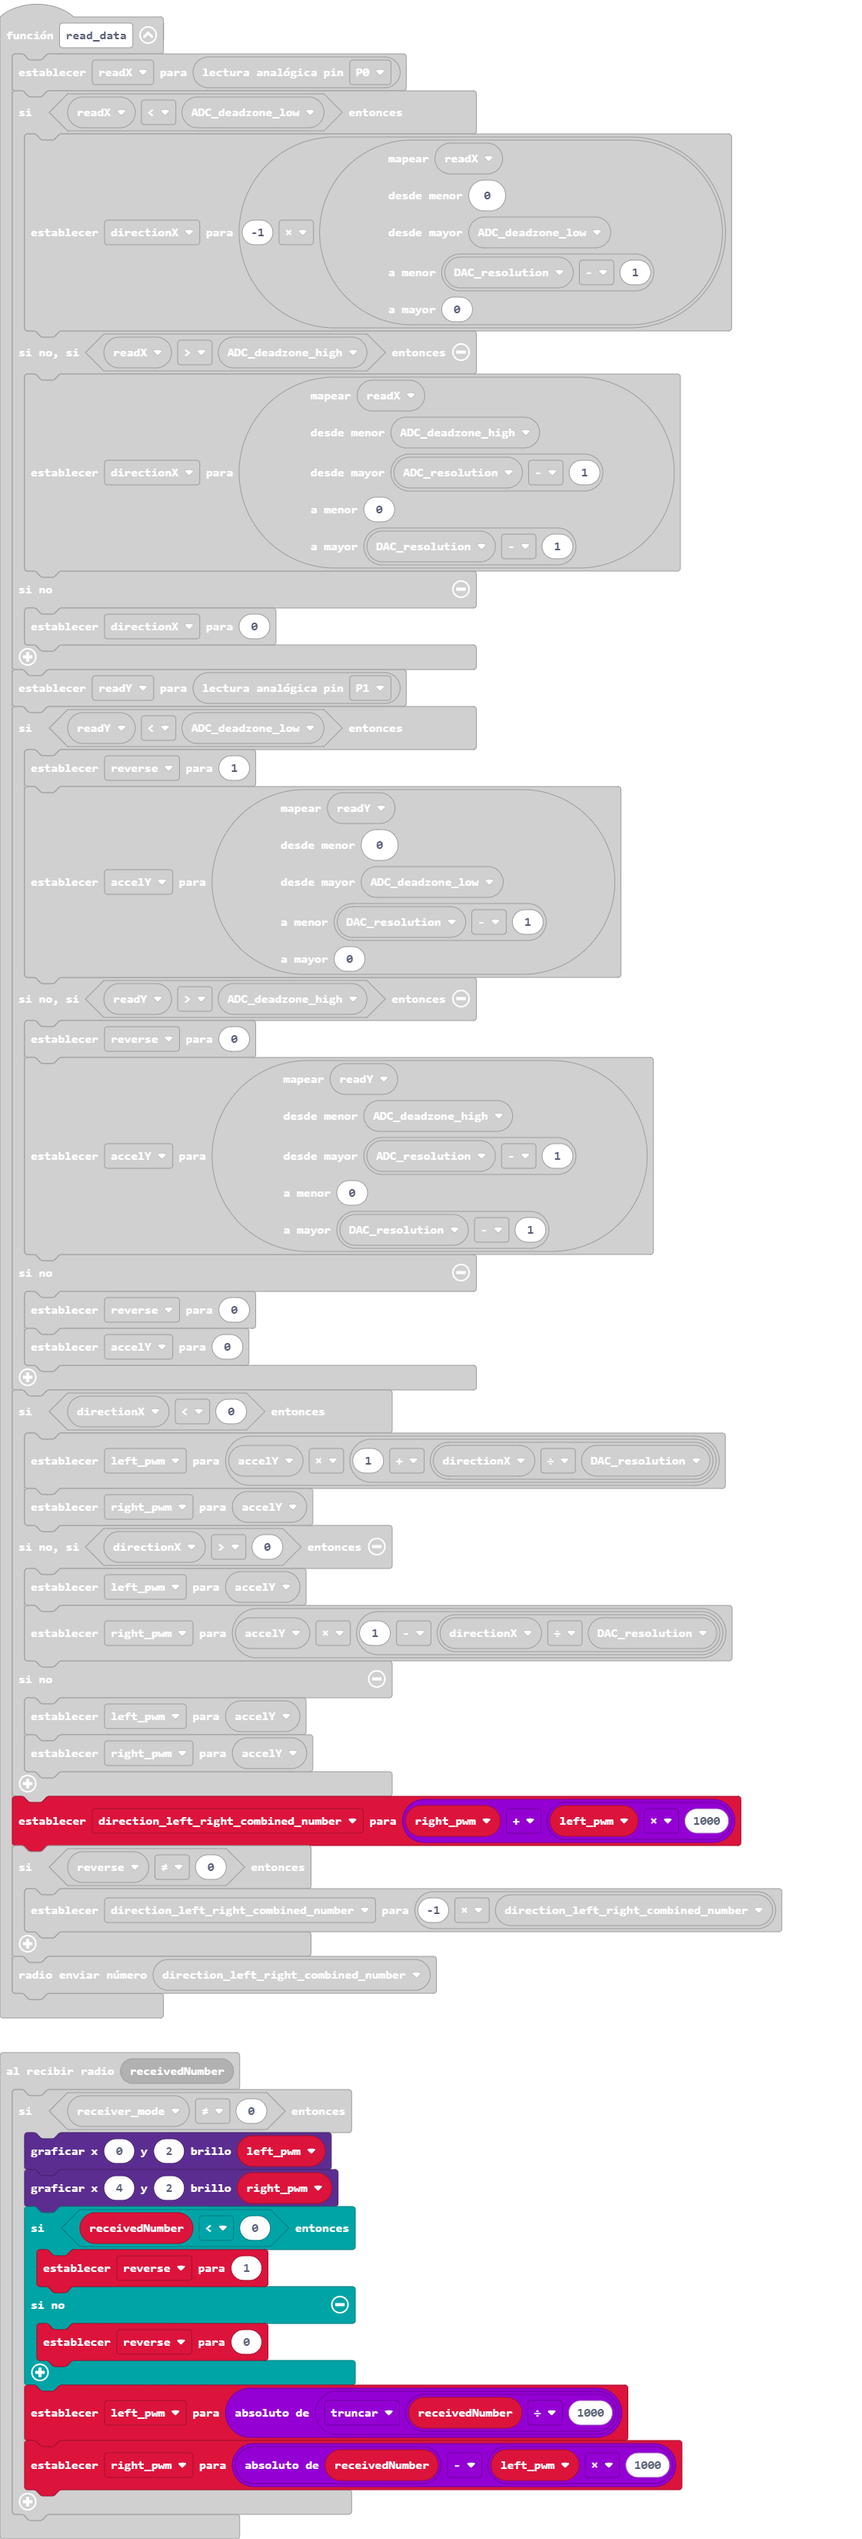
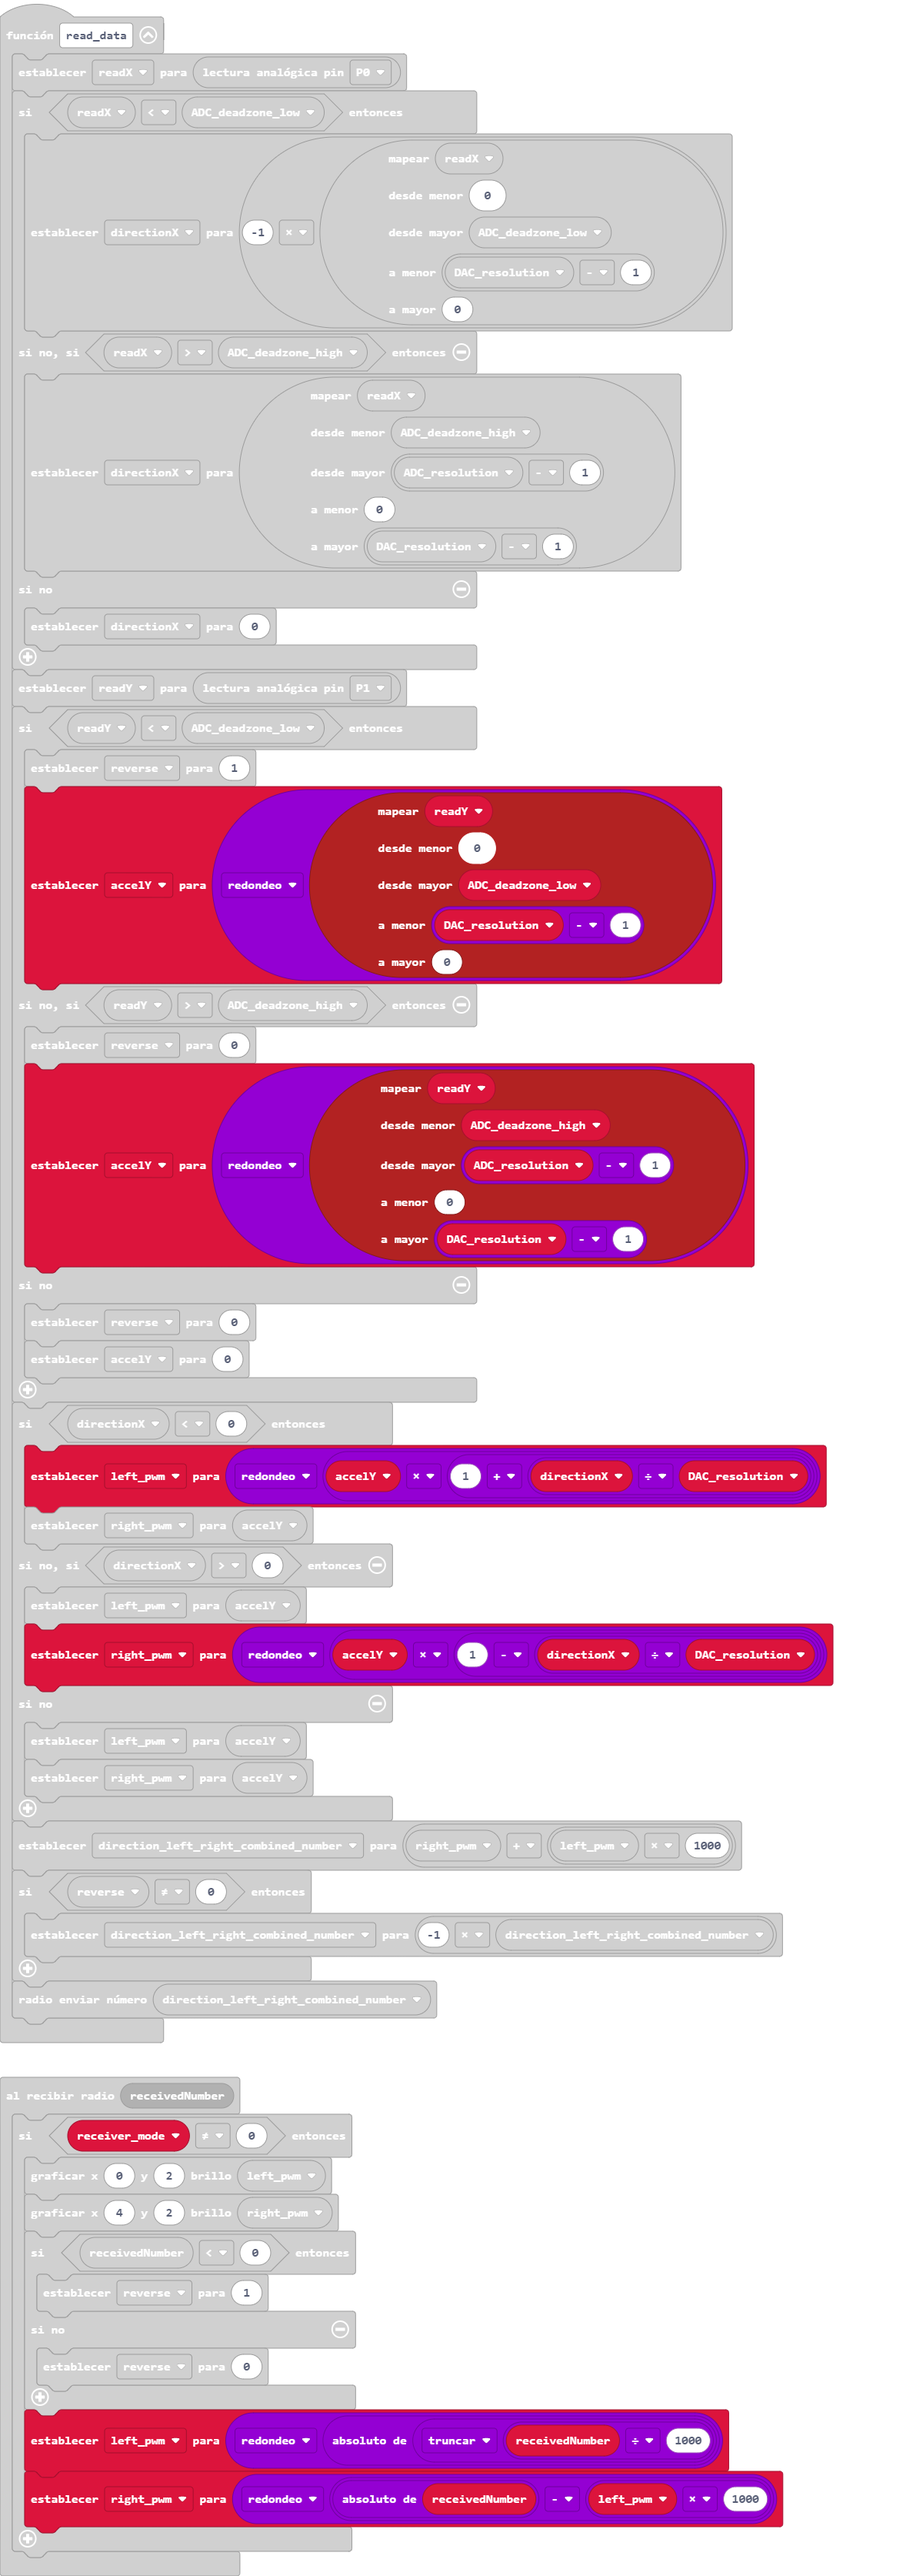
fixed bad calculations, trunked decimals

diff --git a/main.ts b/main.ts
@@ -7,8 +7,8 @@ radio.onReceivedNumber(function (receivedNumber) {
         } else {
             reverse = 0
         }
-        left_pwm = Math.abs(Math.trunc(receivedNumber / 1000))
-        right_pwm = Math.abs(receivedNumber) - left_pwm * 1000
+        left_pwm = Math.round(Math.abs(Math.trunc(receivedNumber / 1000)))
+        right_pwm = Math.round(Math.abs(receivedNumber) - left_pwm * 1000)
     }
 })
 input.onButtonPressed(Button.A, function () {
@@ -43,32 +43,32 @@ function read_data () {
     readY = pins.analogReadPin(AnalogPin.P1)
     if (readY < ADC_deadzone_low) {
         reverse = 1
-        accelY = pins.map(
+        accelY = Math.round(pins.map(
         readY,
         0,
         ADC_deadzone_low,
         DAC_resolution - 1,
         0
-        )
+        ))
     } else if (readY > ADC_deadzone_high) {
         reverse = 0
-        accelY = pins.map(
+        accelY = Math.round(pins.map(
         readY,
         ADC_deadzone_high,
         ADC_resolution - 1,
         0,
         DAC_resolution - 1
-        )
+        ))
     } else {
         reverse = 0
         accelY = 0
     }
     if (directionX < 0) {
-        left_pwm = accelY * (1 + directionX / DAC_resolution)
+        left_pwm = Math.round(accelY * (1 + directionX / DAC_resolution))
         right_pwm = accelY
     } else if (directionX > 0) {
         left_pwm = accelY
-        right_pwm = accelY * (1 - directionX / DAC_resolution)
+        right_pwm = Math.round(accelY * (1 - directionX / DAC_resolution))
     } else {
         left_pwm = accelY
         right_pwm = accelY
